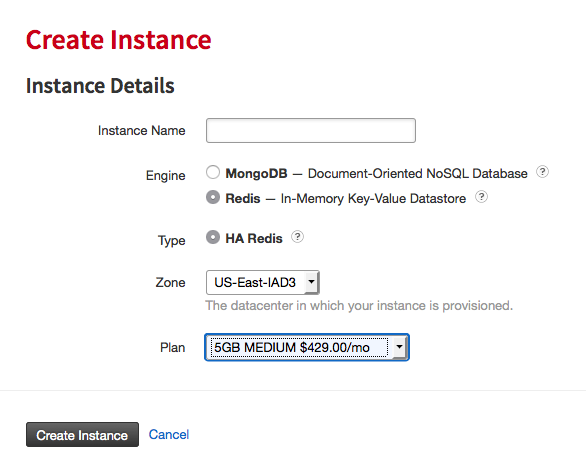
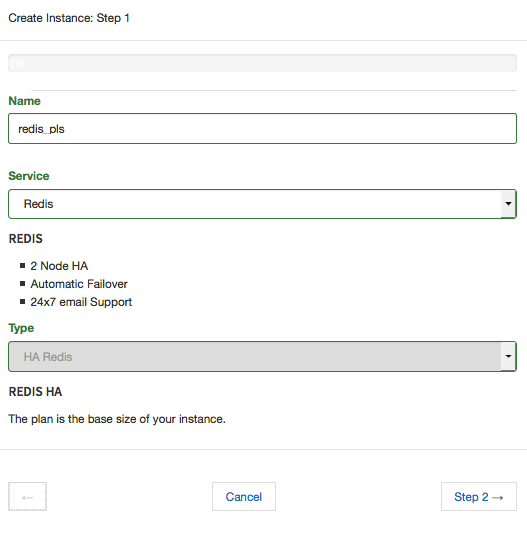
updating screenshots to match latest gui changes

diff --git a/source/mongodb_getting_started.rst b/source/mongodb_getting_started.rst
@@ -21,13 +21,22 @@ Getting Started with MongoDB
 
 - Select a name for your instance. This can be almost anything, as any alpha numeric string is valid.
 
-- Select a backend engine, MongoDB in this case.
+- Select a Service, MongoDB in this case.
+
+- Select a type, either MongoDB Sharded or MongoDB Replica Set. The differences are outlined briefly below the type chosen, but more information can be found on our `MongoDB Overview <http://objectrocket.com/docs/mongodb_overview.html>`_.
+
+.. image:: images/createmongo.png
+   :align: center
+
+- Select a version to deploy. We offer MongoDB 2.4, 2.6, and 3.0.
+
+- Select a plan that suits your needs. Consider that as you grow you always add shards in your plan size when using a Sharded instance, but that isn't possible for a Replica Set. For more details, check out `plans and pricing <http://www.objectrocket.com/pricing>`_.
 
 - Select a zone that suits your needs. Zones are either Rackspace and/or AWS Direct Connect zones, labeled by airport codes in that region. Check out the `zone map <http://objectrocket.com/features>`_.
 
-- Select a plan that suits your needs. Consider that as you grow you always add shards in your plan size. For more details, check out `plans and pricing <http://www.objectrocket.com/pricing>`_.
+- Select a Storage Engine. When using MongoDB 3.0 you have the option of alternate storage engines. We currently offer WiredTiger and MMAPv1 when using 3.0+.
 
-.. image:: images/createmongo.png
+.. image:: images/createmongo_2.png
    :align: center
 
 2. Create a database
@@ -43,7 +52,7 @@ Once you've added an instance you should see it under the **Instances** heading.
 
 Back to the instance details page, under the heading **Security**, you have the option to **Add ACL**. This is necessary as we don't allow any access by default so you need to add any appropriate ACL's for your servers connecting to ObjectRocket. There are two fields: **IP Address** and **Description**. Only IP is mandatory, but a description can certainly help if you plan to have more than a few.
 
-.. image:: images/addacl.png
+.. image:: images/addacl_mongo.png
    :align: center
 
 4. Connect!

diff --git a/source/redis_getting_started.rst b/source/redis_getting_started.rst
@@ -15,9 +15,18 @@ Getting Started with Redis
 
 - Select a name for your instance. This can be almost anything, as any alpha numeric string is valid.
 
+- Select a Service, Redis in this case.
+
+- There is only one type of Redis offered at the moment, defaulting to HA Redis.
+
+.. image:: images/createredis.png
+   :align: center
+
+- Select a version to deploy. We offer 2.8.22 and 3.0.4 as a beta.
+
 - Select a zone that suits your needs. Zones are either Rackspace or AWS Direct Connect zones, labeled by airport codes in that region. Check out the `zone map <http://objectrocket.com/features>`_ for more details.
 
-- Select a plan that suits your needs. Consider that as you grow you always add shards in your plan size. For more details, check out `plans and pricing <http://www.objectrocket.com/pricing>`_.
+- Select a plan that suits your needs. For more details, check out `plans and pricing <http://www.objectrocket.com/pricing>`_.
 
 .. image:: images/createredis.png
    :align: center
@@ -27,6 +36,8 @@ Getting Started with Redis
 
 Under the heading `Security`, you have the option to `Add ACL`. This is necessary as we don't allow any access by default so you need to add any appropriate ACL's for your servers connecting to ObjectRocket. There are two fields: `IP Address` and `Description`. Only IP is mandatory, but a description can certainly help if you plan to have more than a few.
 
+.. image:: images/addacl_mongo.png
+   :align: center
 
 3. Connect!
 ~~~~~~~~~~~
